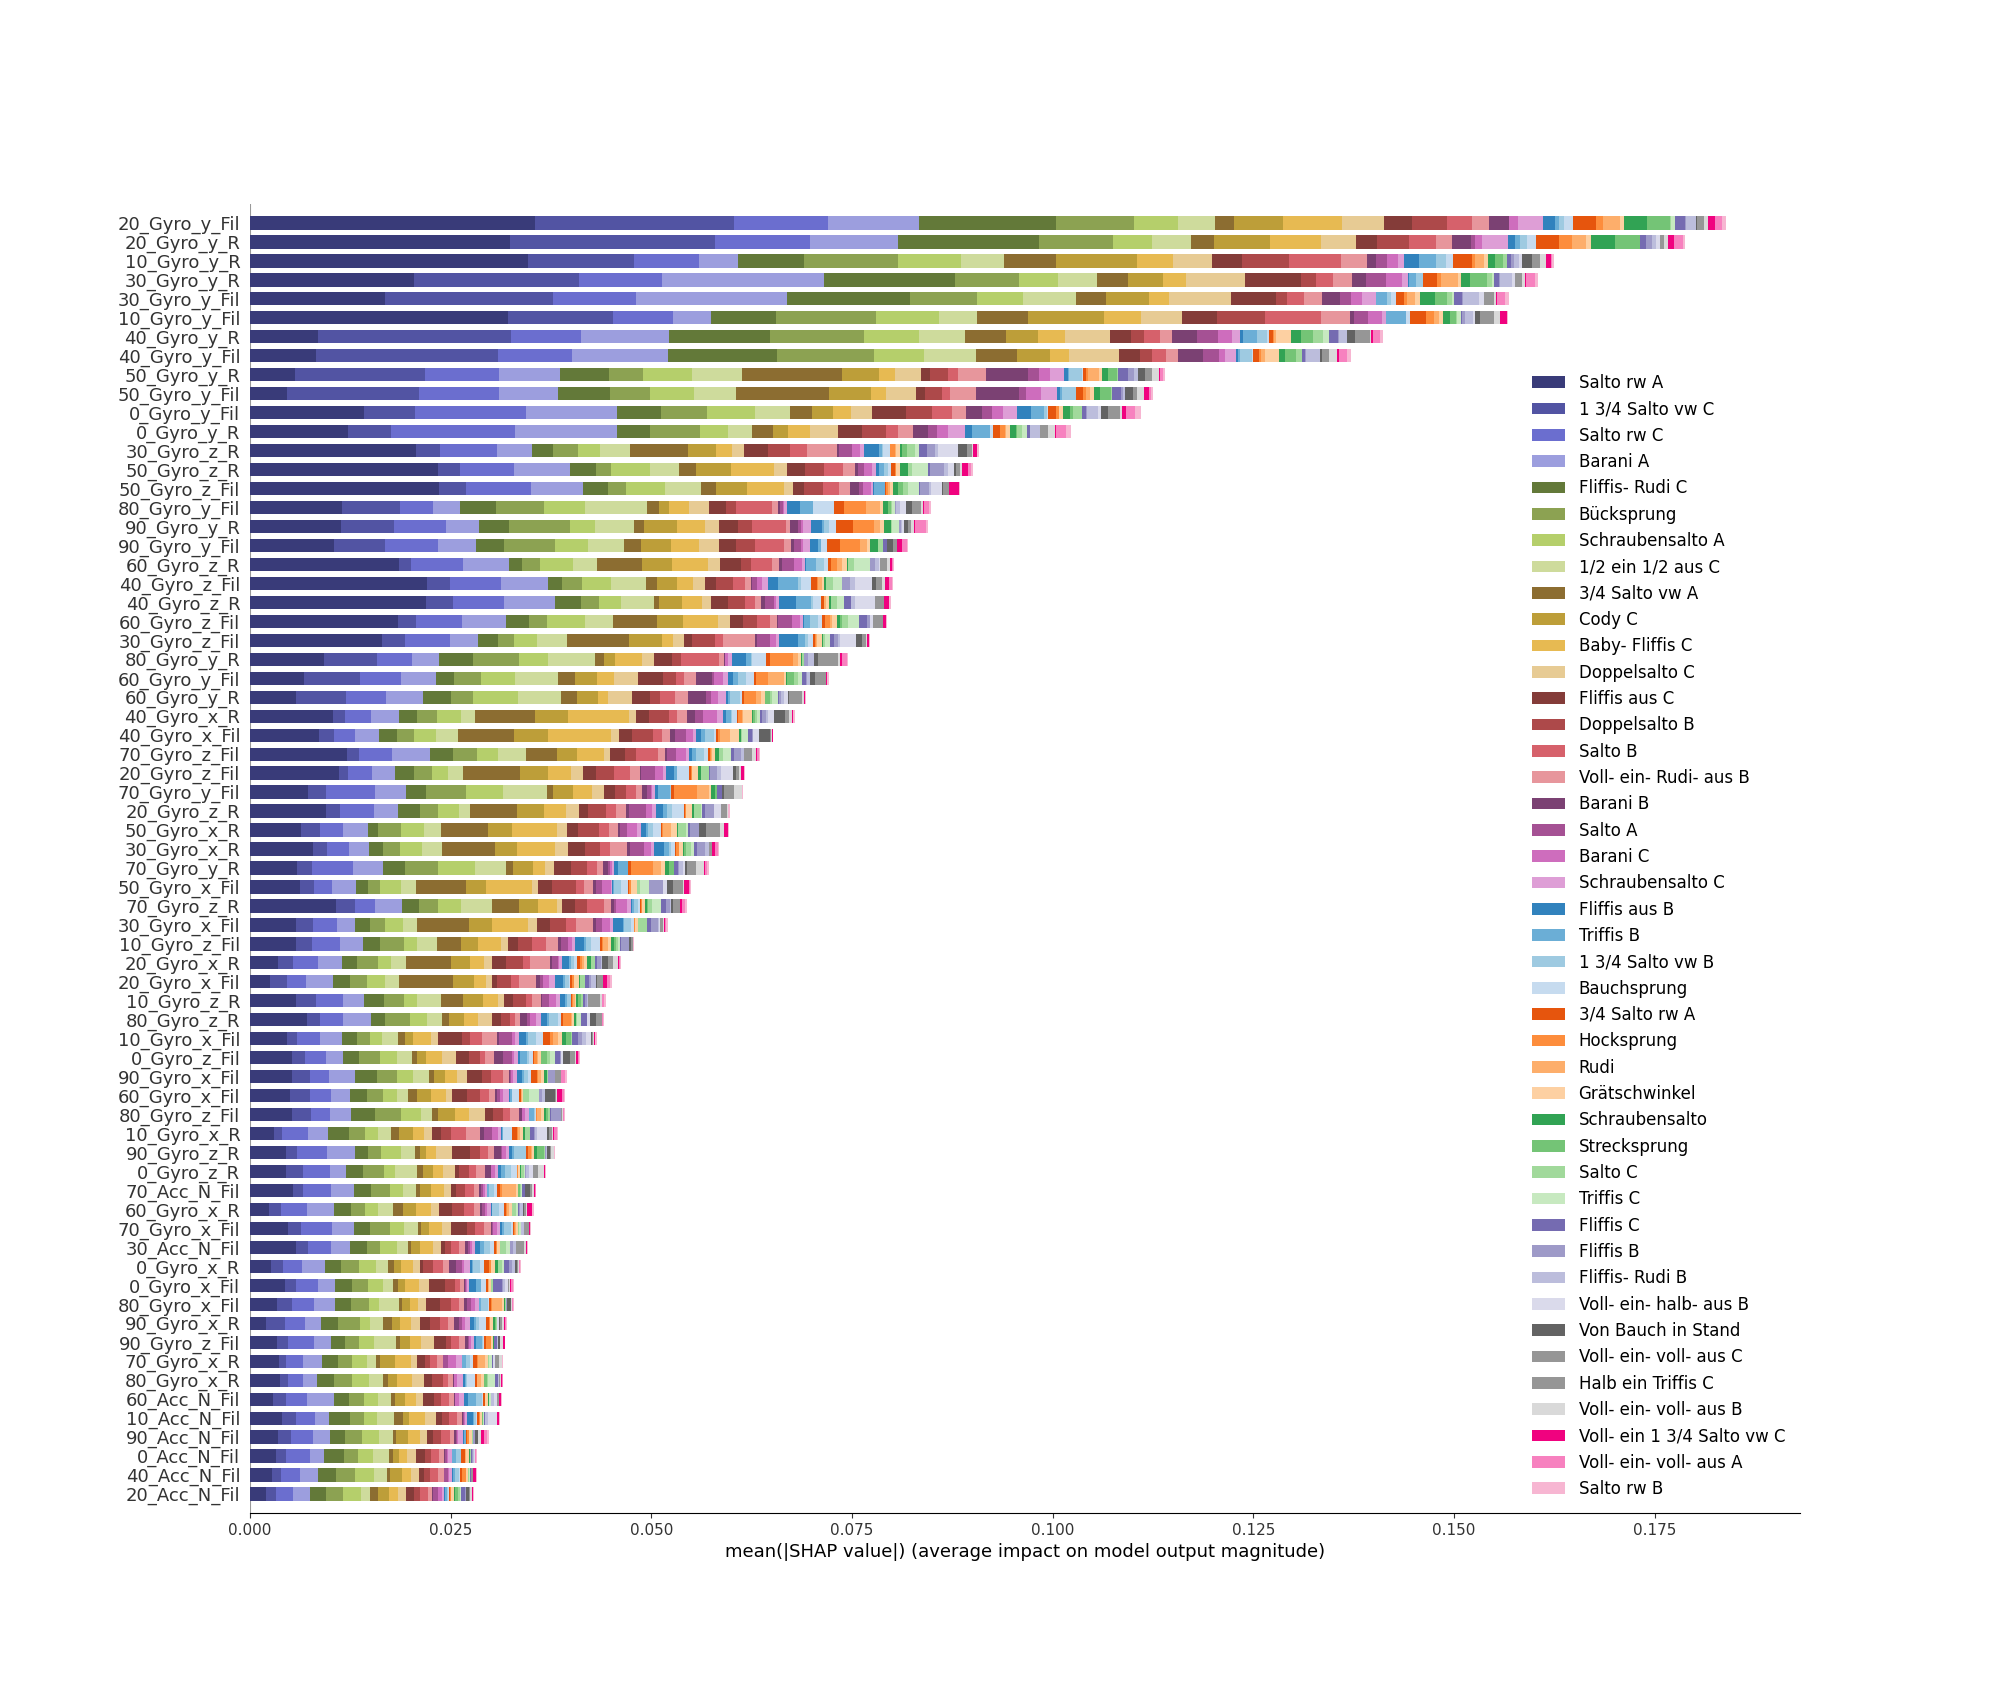
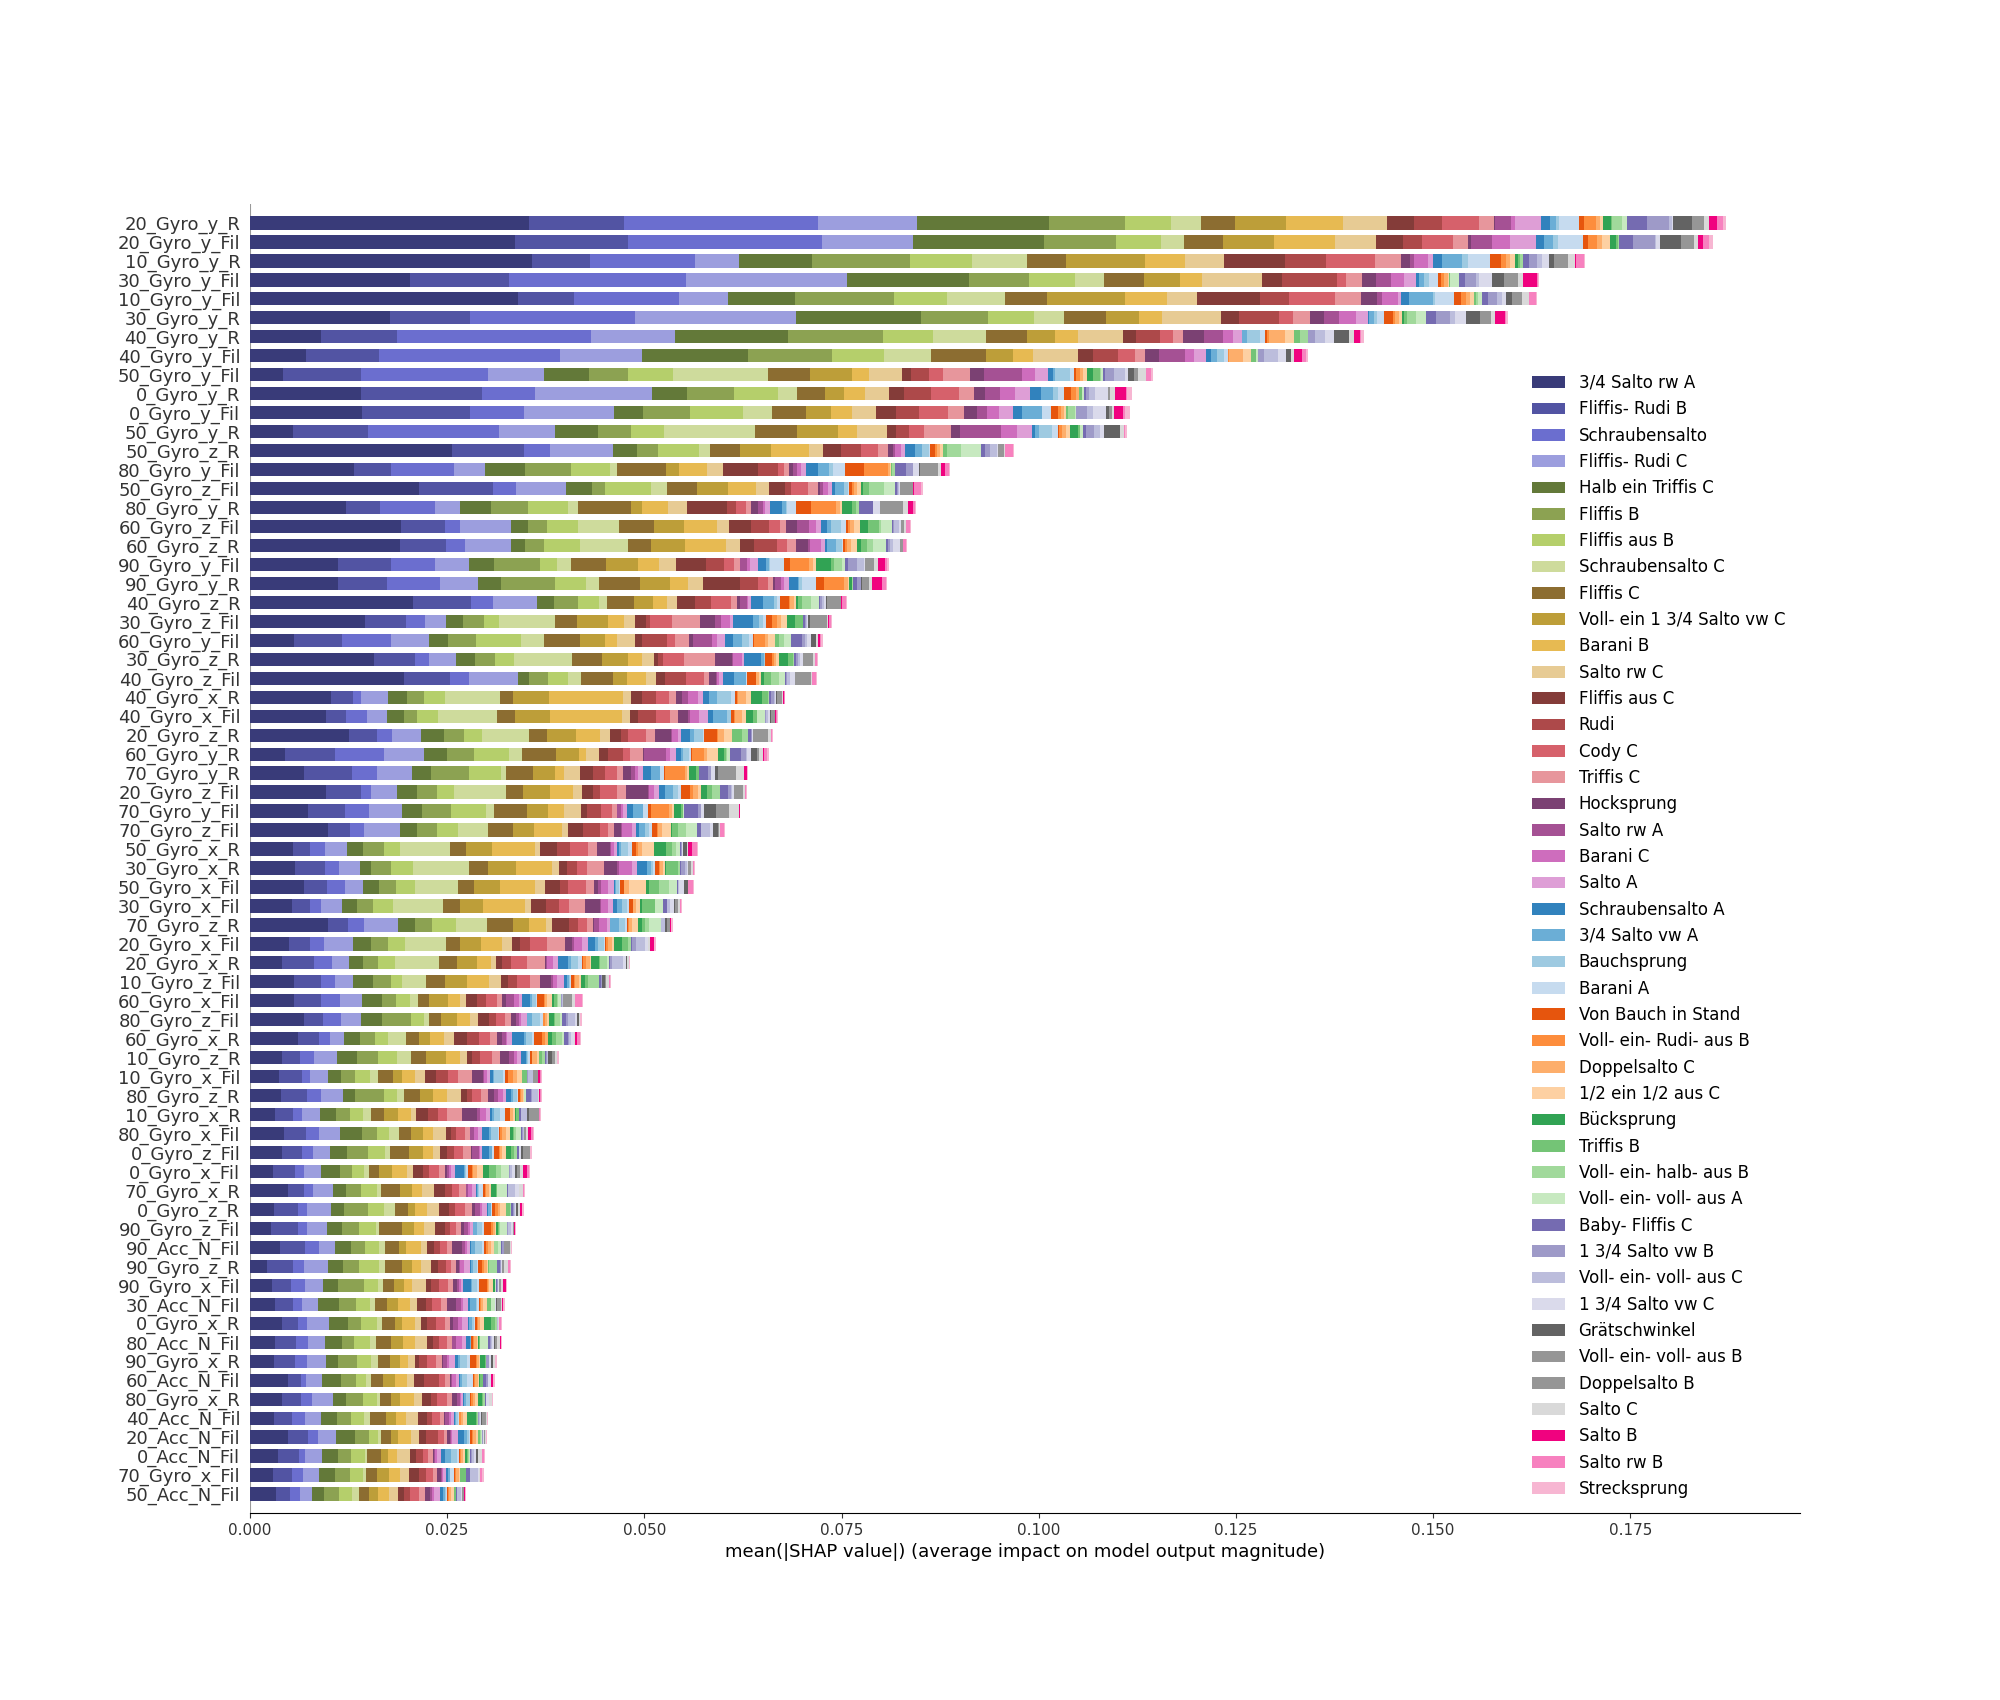
ADD update shap diagrams

diff --git a/kNN/kNN_shap.py b/kNN/kNN_shap.py
@@ -36,26 +36,27 @@ if __name__ == '__main__':
 
     train_data = pd.read_csv(
         '../Sprungdaten_processed/with_preprocessed/percentage/10/vector_percentage_mean_10_train.csv')
+
     '''test_data = pd.read_csv(
-        '../Sprungdaten_processed/with_preprocessed/percentage/10/vector_percentage_mean_10_test.csv')
+        '../Sprungdaten_processed/with_preprocessed/percentage/10/vector_percentage_mean_10_test.csv')'''
     test_data = pd.read_csv(
-        '../Sprungdaten_processed/with_preprocessed/percentage/10/vector_AJ_percentage_mean_10.csv')'''
+        '../Sprungdaten_processed/with_preprocessed/percentage/10/vector_AJ_percentage_mean_10.csv')
 
 
-    train_data = pd.read_csv(
-        '../Sprungdaten_processed/without_preprocessed/percentage/20/vector_percentage_mean_std_20_train.csv')
+    '''train_data = pd.read_csv(
+        '../Sprungdaten_processed/without_preprocessed/percentage/20/vector_percentage_mean_std_20_train.csv')'''
         
     '''test_data = pd.read_csv(
         '../Sprungdaten_processed/without_preprocessed/percentage/20/vector_percentage_mean_std_20_test.csv')'''
-    test_data = pd.read_csv(
-        '../Sprungdaten_processed/without_preprocessed/percentage/20/vector_AJ_percentage_mean_std_20.csv')
+    '''test_data = pd.read_csv(
+        '../Sprungdaten_processed/without_preprocessed/percentage/20/vector_AJ_percentage_mean_std_20.csv')'''
 
     # get_features (X)
-    '''start_column: str = '0_Acc_N_Fil'
-    end_column: str = '90_Gyro_z_Fil' '''
+    start_column: str = '0_Acc_N_Fil'
+    end_column: str = '90_Gyro_z_Fil'
 
-    start_column: str = '0_mean_Acc_N_Fil'
-    end_column: str = '80_std_Gyro_z_Fil'
+    '''start_column: str = '0_mean_Acc_N_Fil'
+    end_column: str = '80_std_Gyro_z_Fil' '''
 
     ''' p = train_data.drop([col for col in train_data.columns if 'DJump_SIG_I_S' in col], axis=1)
     t = test_data.drop([col for col in test_data.columns if 'DJump_SIG_I_S' in col], axis=1)  '''
@@ -95,6 +96,9 @@ if __name__ == '__main__':
     cmap_cm.insert(-1, '#000000')
     cmap_cm = ListedColormap(cmap_cm)
 
+    cmap_cm_AJ = ['#ffffff', '#048166']
+    cmap_cm_AJ = ListedColormap(cmap_cm_AJ)
+
     shap_x_test, shap_y_test = sample_x_test(X_test, y_test, 3)
     shap_x_train, shap_y_train = sample_x_test(X_train, y_train, 6)
 
@@ -103,7 +107,7 @@ if __name__ == '__main__':
     shap_values = explainer.shap_values(shap_x_test)
 
 
-    shap.summary_plot(shap_values, shap_x_test, plot_type='bar', plot_size=(22, 17), color=ListedColormap(cmap),
+    shap.summary_plot(shap_values, shap_x_test, plot_type='bar', plot_size=(30, 17), color=ListedColormap(cmap),
                       class_names=shap_y_test.unique(), max_display=20)
     shap.summary_plot(shap_values, shap_x_test, plot_type='bar', plot_size=(20, 17), color=ListedColormap(cmap),
                       class_names=shap_y_test.unique(), max_display=68)
@@ -117,12 +121,12 @@ if __name__ == '__main__':
 
     cm = confusion_matrix(y_test, y_pred, labels=clf.classes_)
     disp = ConfusionMatrixDisplay(confusion_matrix=cm, display_labels=clf.classes_)
-    disp.plot(cmap=cmap_cm)
+    disp.plot(cmap=cmap_cm_AJ)
     disp.figure_.set_figwidth(35)
     disp.figure_.set_figheight(25)
     disp.figure_.autofmt_xdate()
     plt.tick_params(axis='x', labelsize=10, labelrotation=45, grid_linewidth=5)
-    plt.title("KNN/without_preprocessed/vector_AJ_percentage_mean_std_20")
+    plt.title("KNN/with_preprocessed/vector_AJ_percentage_mean_10_train")
     plt.tight_layout()
     plt.show()
 
